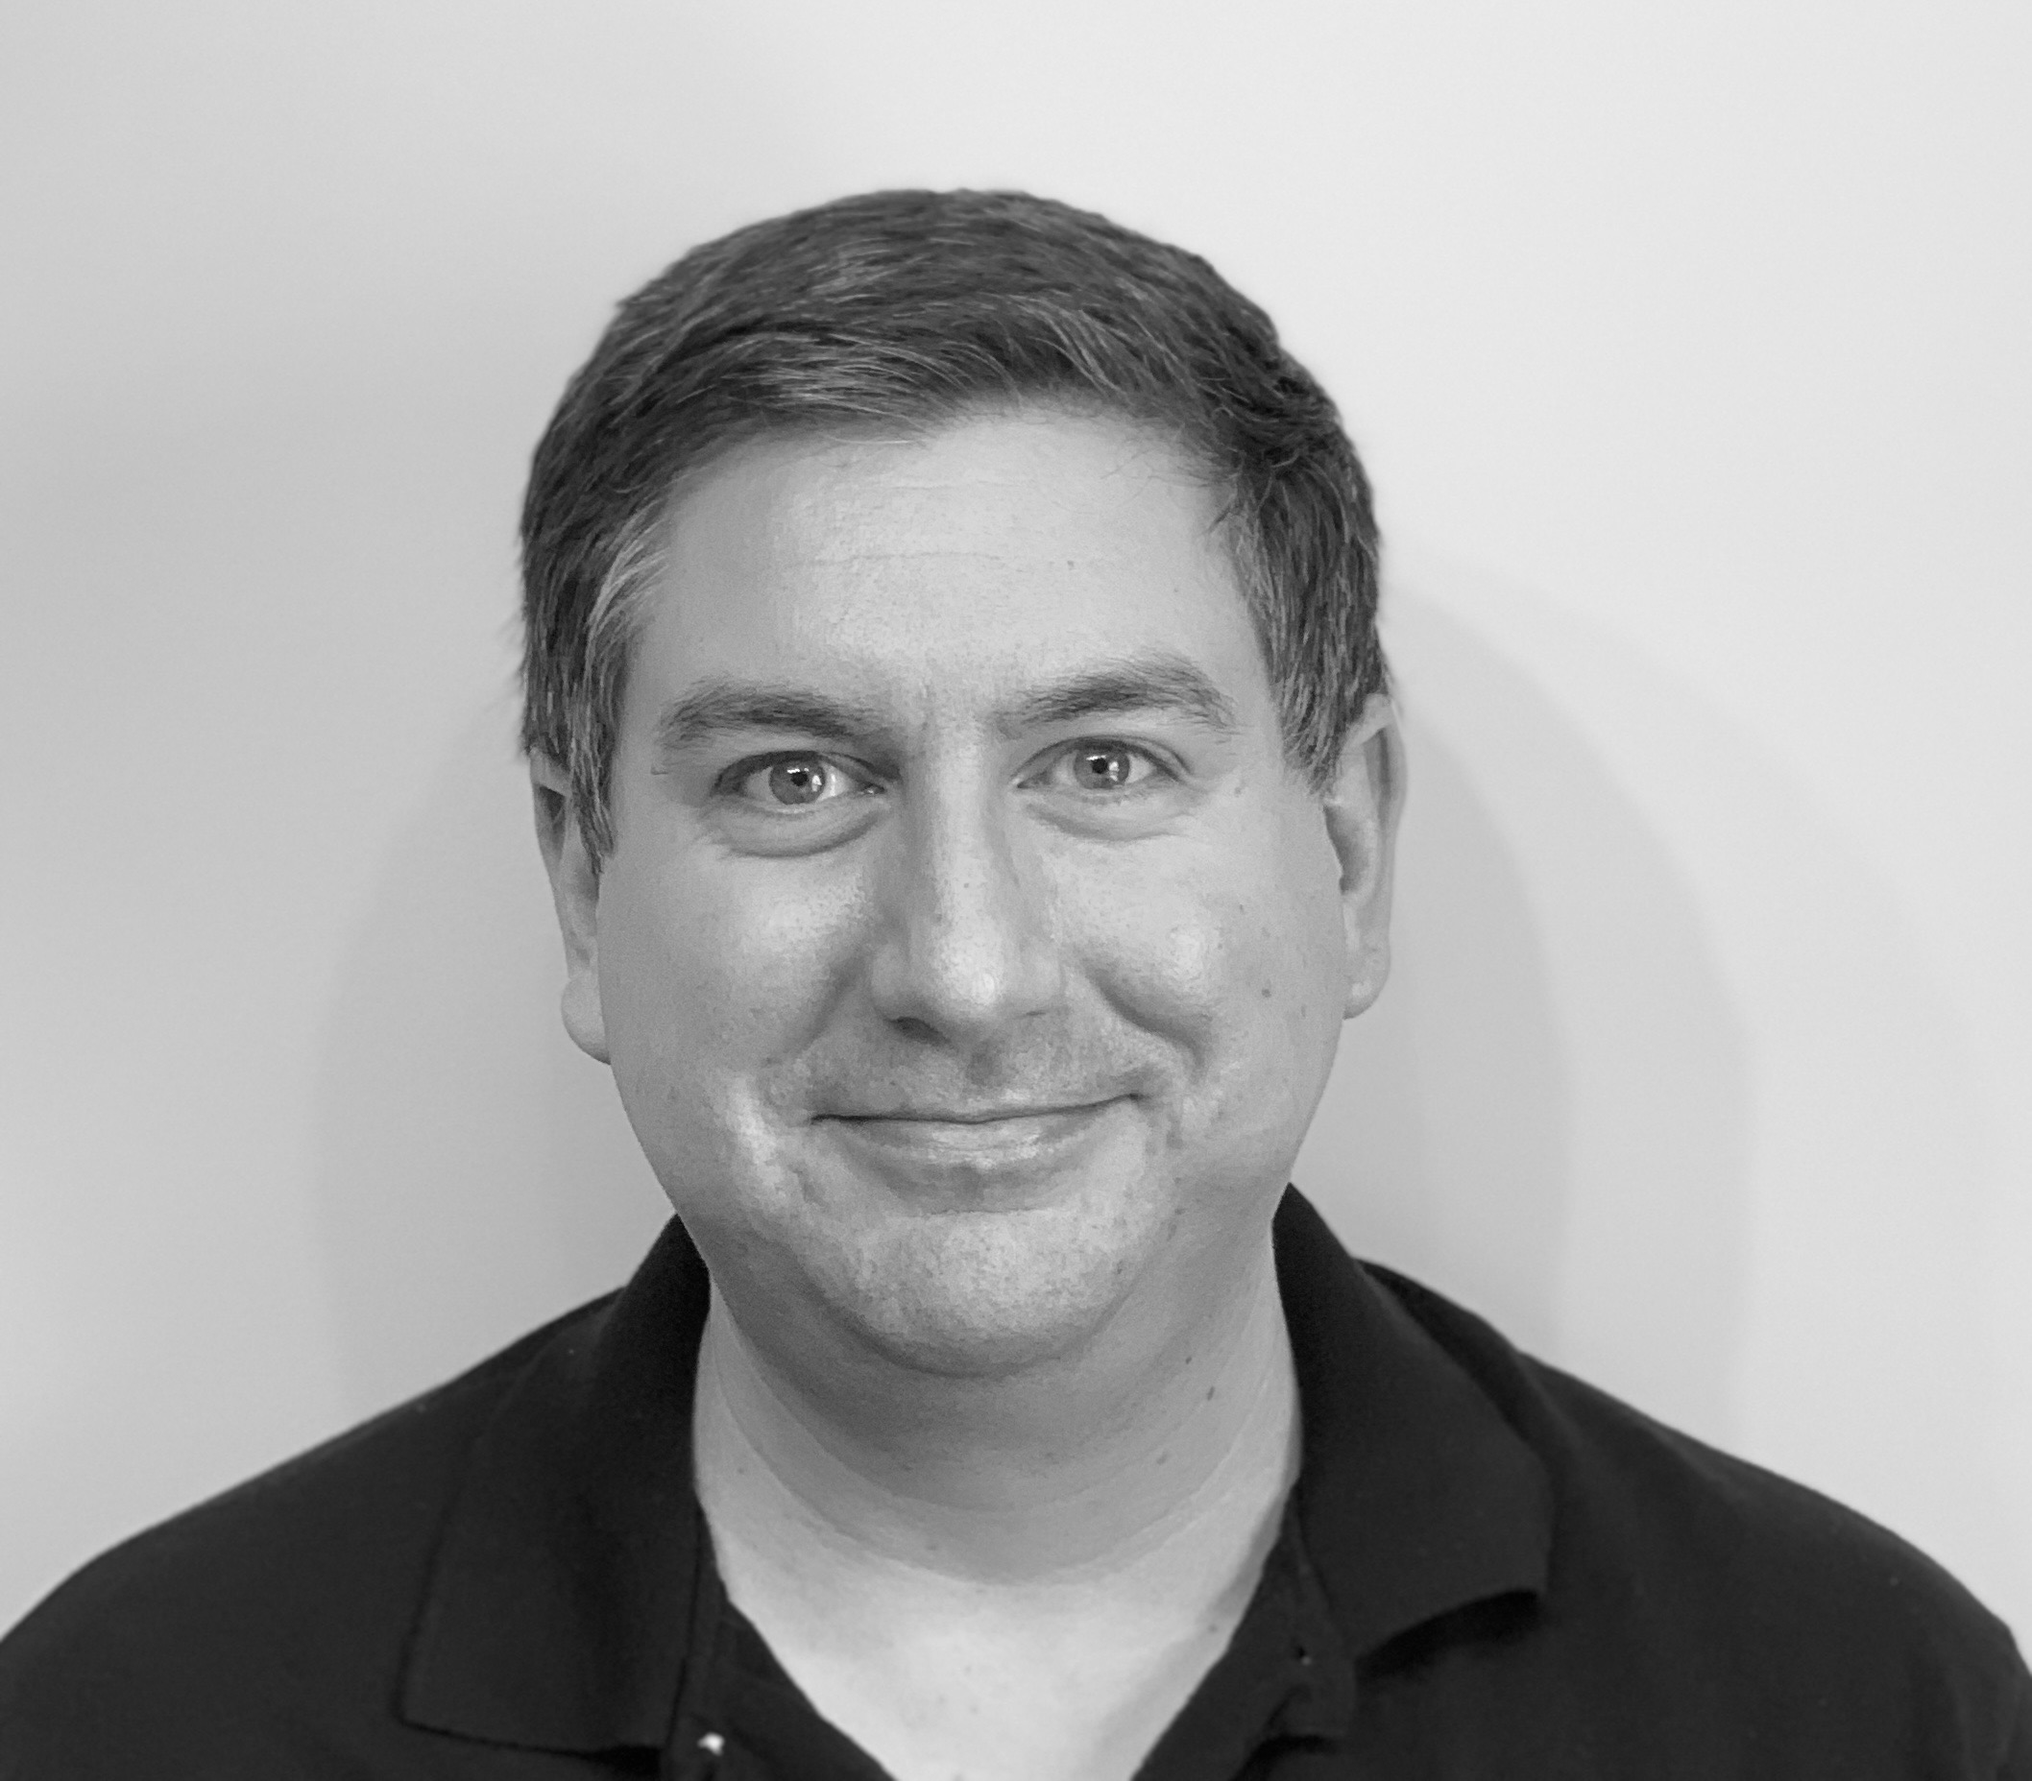
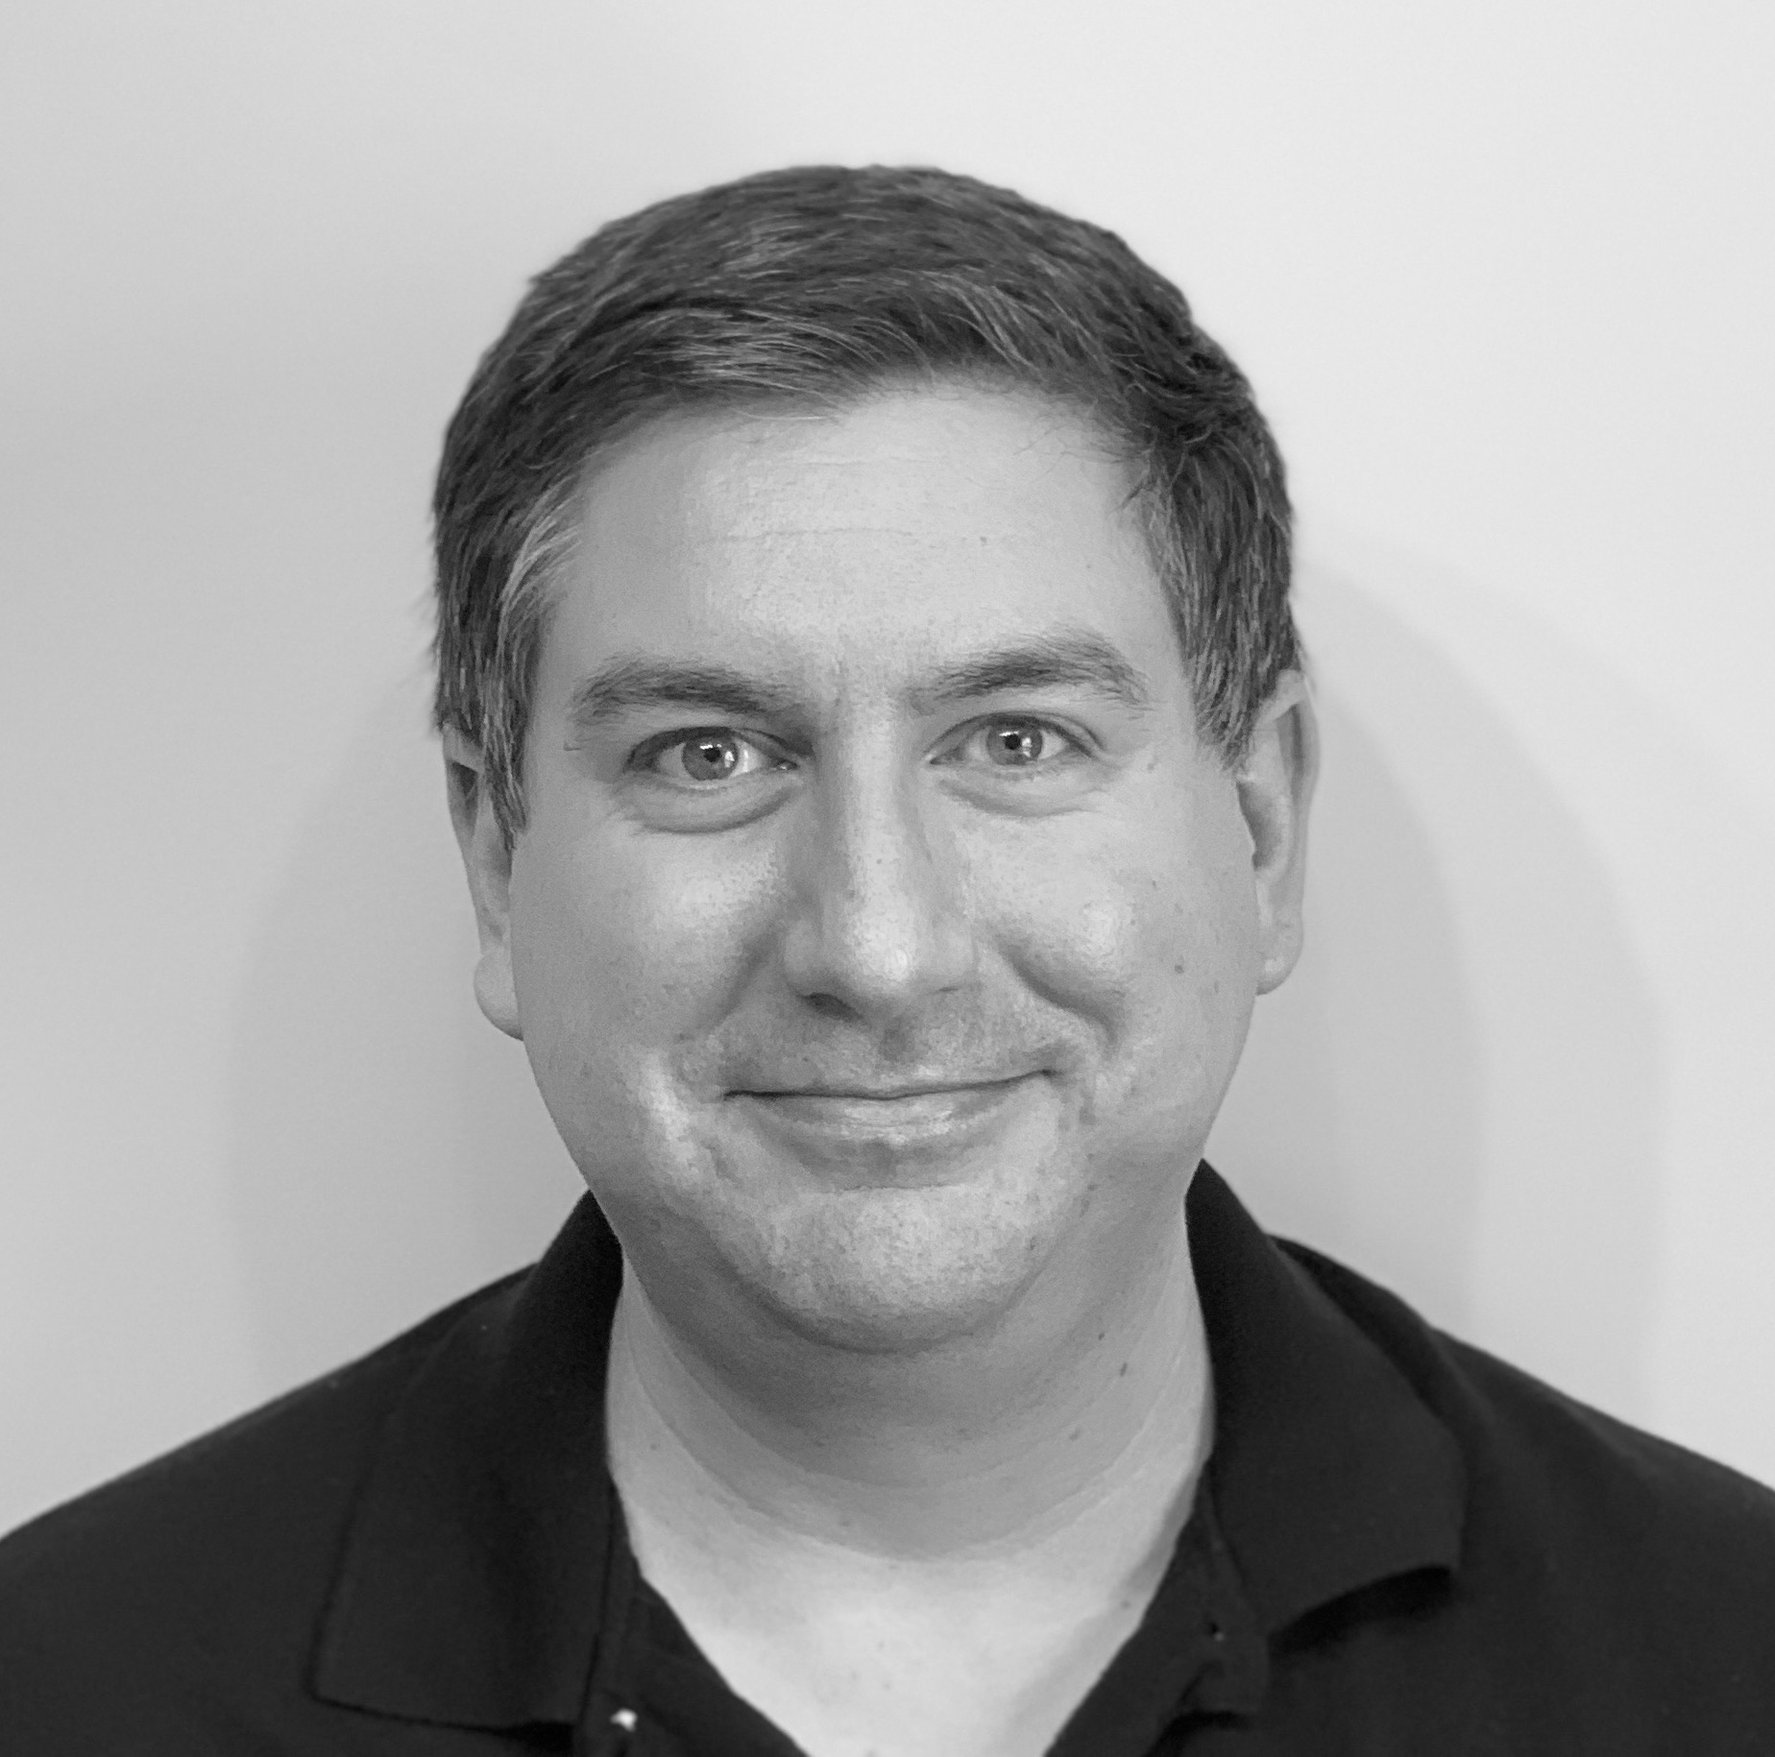
fixed profile photo centering

diff --git a/src/stylesheets/About.css b/src/stylesheets/About.css
@@ -59,8 +59,8 @@
 
 .profile-photo {
     margin-top: 20px;
-    width: 10em;
-    height: 10em;
+    /*width: 10em;*/
+    /*height: 10em;*/
     border-radius: 50%;
 }
 
